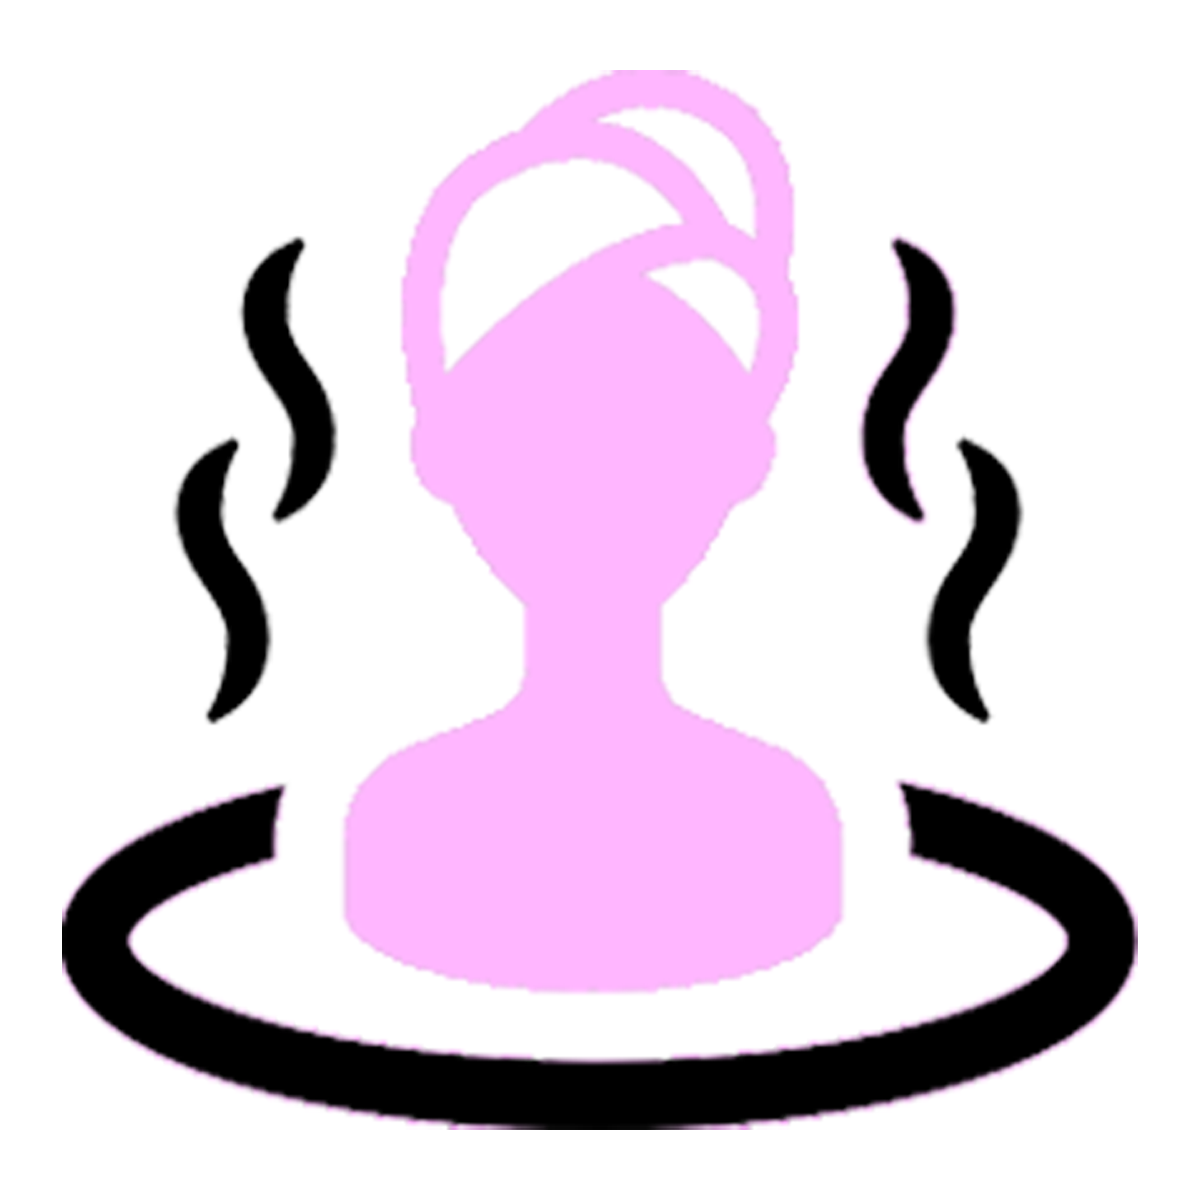
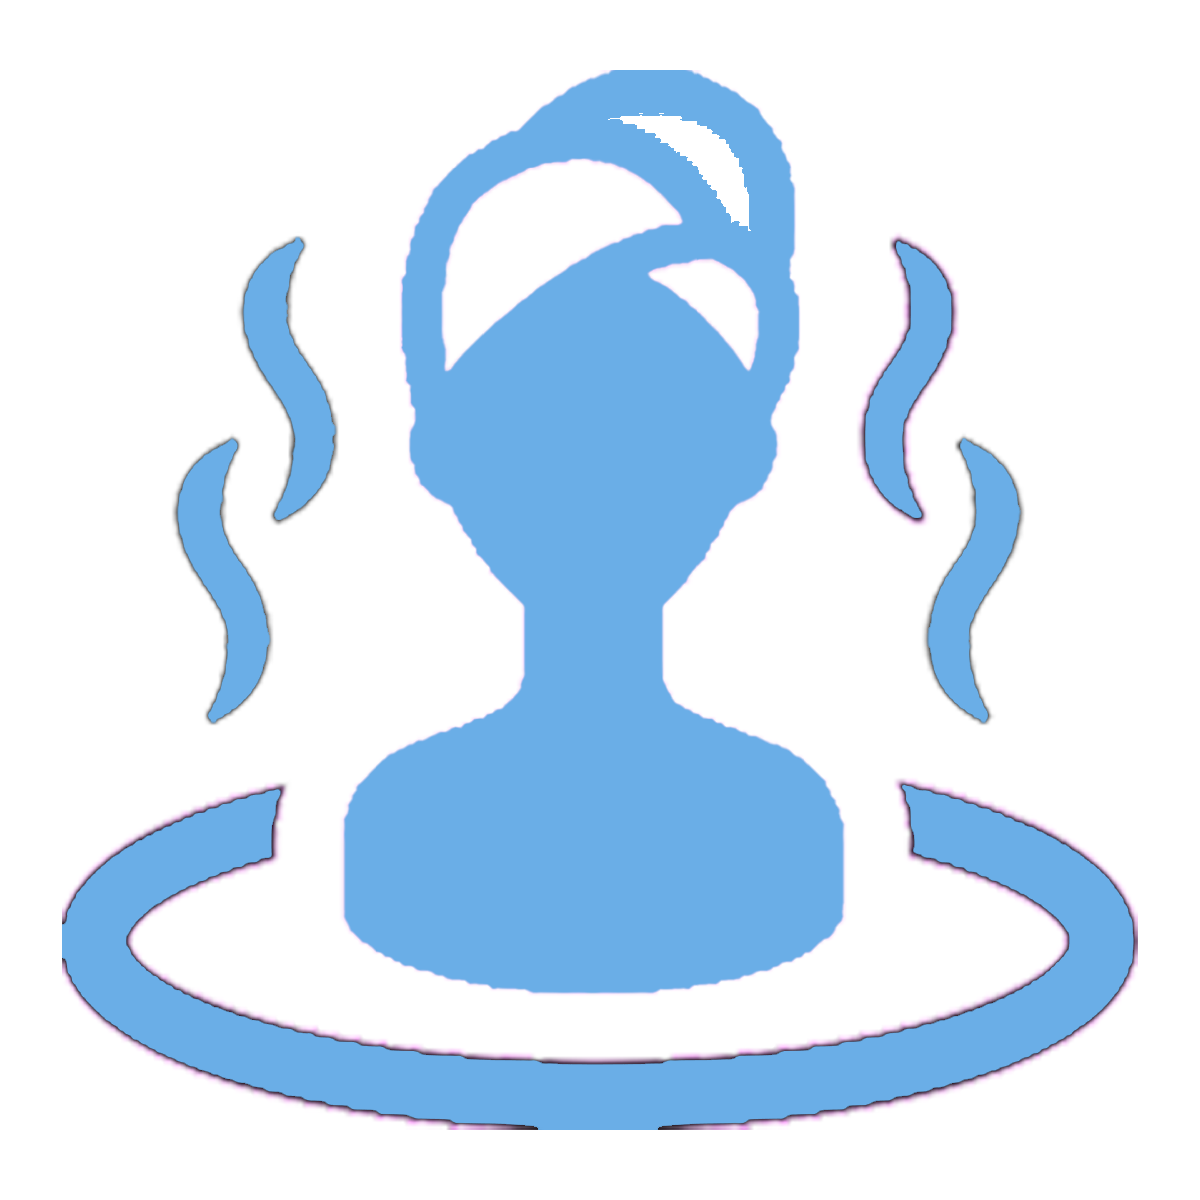
Changed color of passion images and add inspiration

diff --git a/index.html b/index.html
@@ -9,7 +9,7 @@
 
   </head>
   <body>
-    <h1> YuYun's </h1>
+    <h1> YuYun's </h1> 
     <div class="navbar">
         <a href="index.html">Home</a>
         <a href="first_website/index.html"> First Website</a>
@@ -65,7 +65,7 @@
     <div class ="center"> 
       <img class="small-image" src="spider-2.gif" alt="spider">
     </div>
-      
+
   </body>
 </html>
 

diff --git a/square-animation/index.html b/square-animation/index.html
@@ -103,6 +103,7 @@
     </div>
   </div>
   </div>
+    <p> Inspired by Dennis Hoogstad's <a href ="https://amberekiz.github.io/class-site/screensaver/index.html">  Amber Ekizoglu, Focus </a> </p>
 </body>
 
 

diff --git a/square-animation/style.css b/square-animation/style.css
@@ -710,3 +710,10 @@ img {
 }
 
 }
+
+
+p{
+    color: aliceblue; 
+    font-size: 20px; 
+    text-align: center; 
+}
